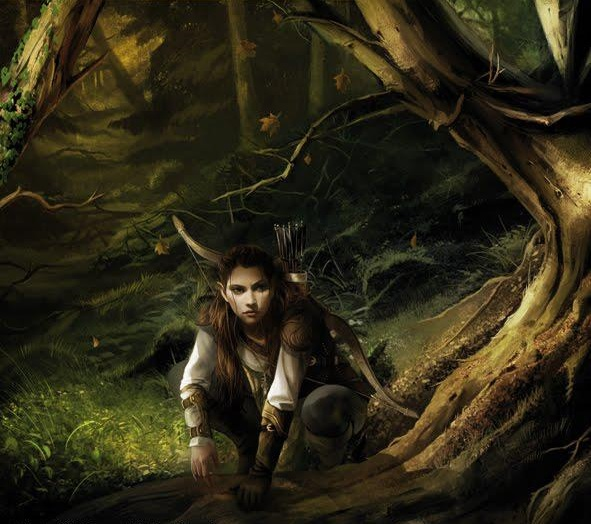
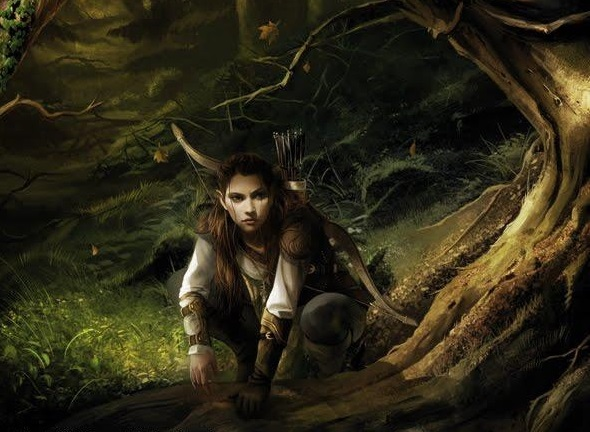
Fixed issues with aspect ratio and sizing for AdventurerMenu images.

diff --git a/StoryExplorer.WpfApp/Views/AdventurerMenu.xaml b/StoryExplorer.WpfApp/Views/AdventurerMenu.xaml
@@ -5,7 +5,7 @@
         xmlns:mc="http://schemas.openxmlformats.org/markup-compatibility/2006"
         xmlns:local="clr-namespace:StoryExplorer.WpfApp"
         mc:Ignorable="d"
-        Title="Story Explorer: Adventurer Menu" Height="449" Width="597.5" WindowStartupLocation="CenterScreen" Closed="Window_Closed">
+        Title="Story Explorer: Adventurer Menu" Height="615" Width="840" WindowStartupLocation="CenterScreen" Closed="Window_Closed">
     <Window.DataContext>
         <local:AdventurerMenuViewModel/>
     </Window.DataContext>
@@ -14,8 +14,8 @@
             <ImageBrush x:Name="background" ImageSource="..\Images\watching-elf.jpg"/>
         </Grid.Background>
         <Grid.ColumnDefinitions>
-            <ColumnDefinition/>
             <ColumnDefinition Width="2*"/>
+            <ColumnDefinition Width="5*"/>
         </Grid.ColumnDefinitions>
         <StackPanel Grid.Column="0">
             <Label x:Name="adventurerName" HorizontalAlignment="Center" FontSize="24" Margin="0,20,0,0" Foreground="#FFB1CFAE" FontFamily="Gabriola" BorderThickness="0">
@@ -23,7 +23,7 @@
                     <DropShadowEffect/>
                 </Label.Effect> AdventurerName
             </Label>
-            <Grid x:Name="adventurerProfile" Width="264" Background="#B1082715" HorizontalAlignment="Center" Margin="0">
+            <Grid x:Name="adventurerProfile" Width="200" Background="#B1082715" HorizontalAlignment="Center" Margin="0">
                 <Grid.RowDefinitions>
                     <RowDefinition/>
                     <RowDefinition/>
@@ -58,8 +58,8 @@
                 <Label x:Name="labelCurrentRegion" Grid.Row="7" Grid.Column="1" Foreground="#FFB1CFAE"/>
                 <Label x:Name="labelCreatedDate" Grid.Row="8" Grid.Column="1" Foreground="#FFB1CFAE"/>
             </Grid>
-            <Button Margin="0,10" Width="264" HorizontalAlignment="Center" Height="34" FontSize="16">Change Password</Button>
-            <Button Width="264" Height="36" Margin="0,10" HorizontalAlignment="Center" FontSize="16" Foreground="Red">Delete Adventurer</Button>
+            <Button Margin="0,10,0,0" Width="200" HorizontalAlignment="Center" Height="34" FontSize="16" Background="#FFB1CFAE">Change Password</Button>
+            <Button Width="200" Height="36" Margin="0,10,0,0" HorizontalAlignment="Center" FontSize="16" Background="#FFB1CFAE" Foreground="Red">Delete Adventurer</Button>
         </StackPanel>
     </Grid>
 </Window>
